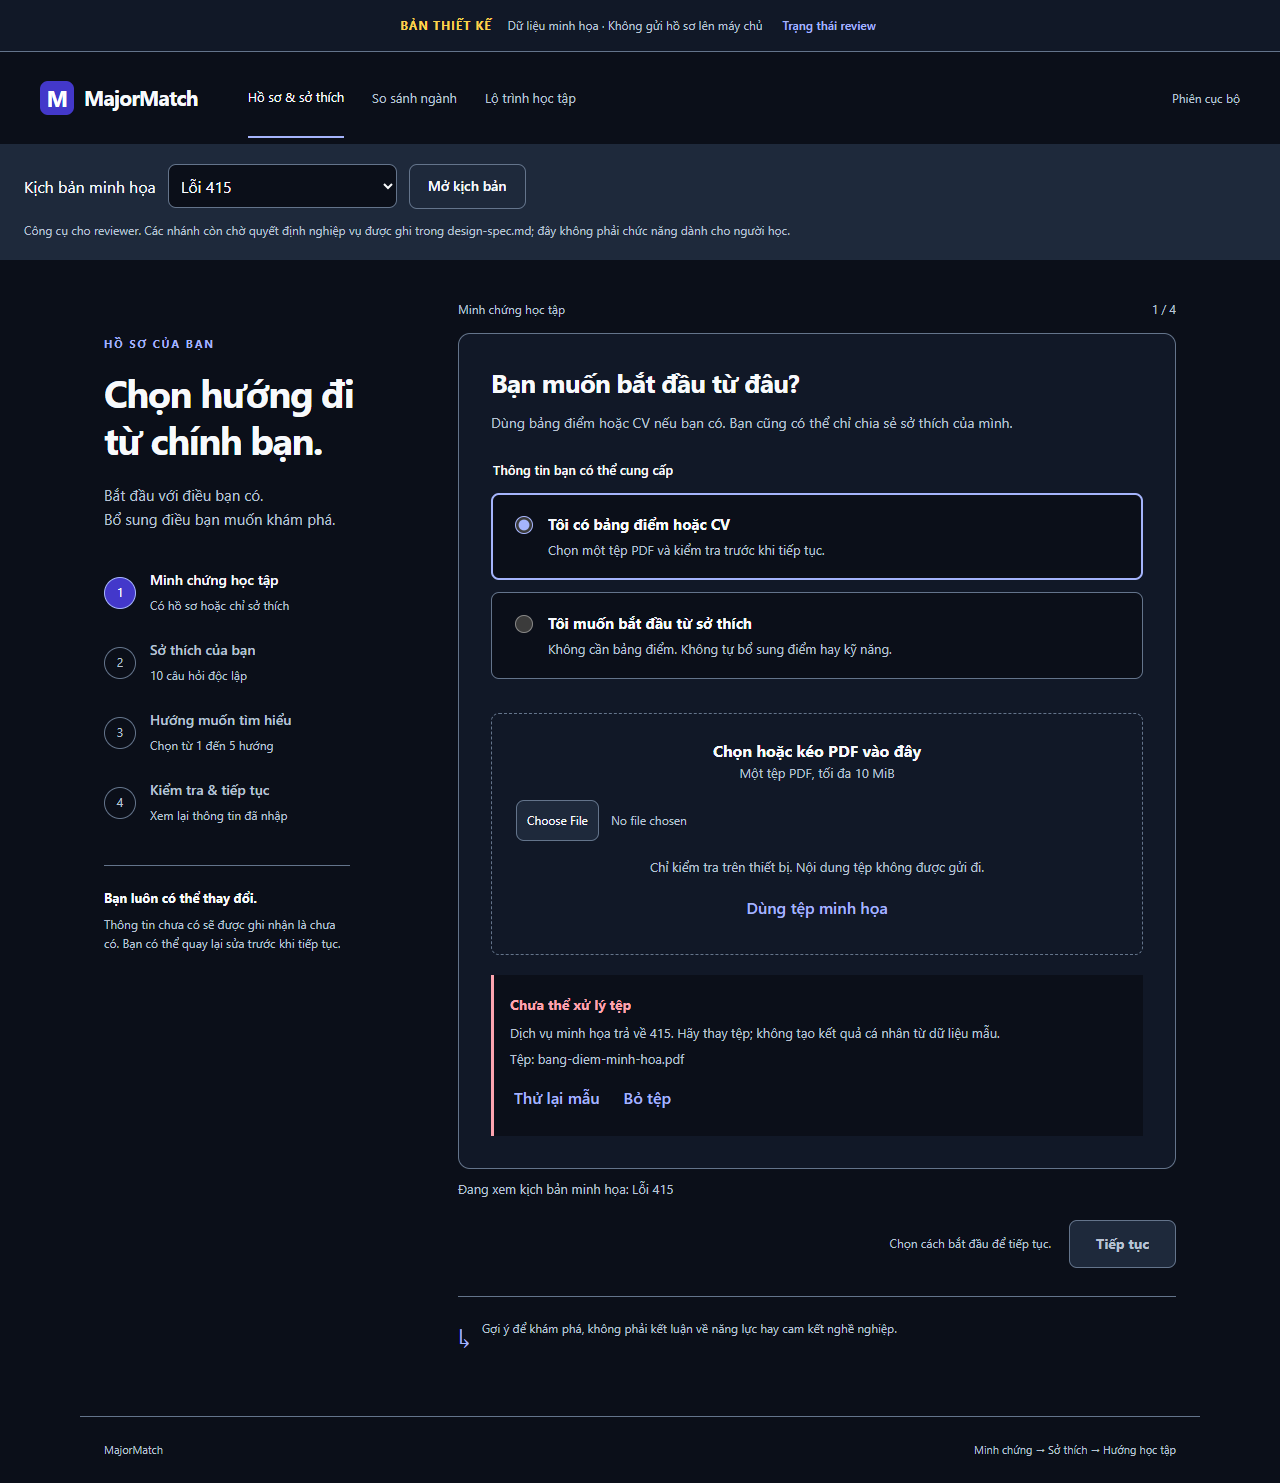
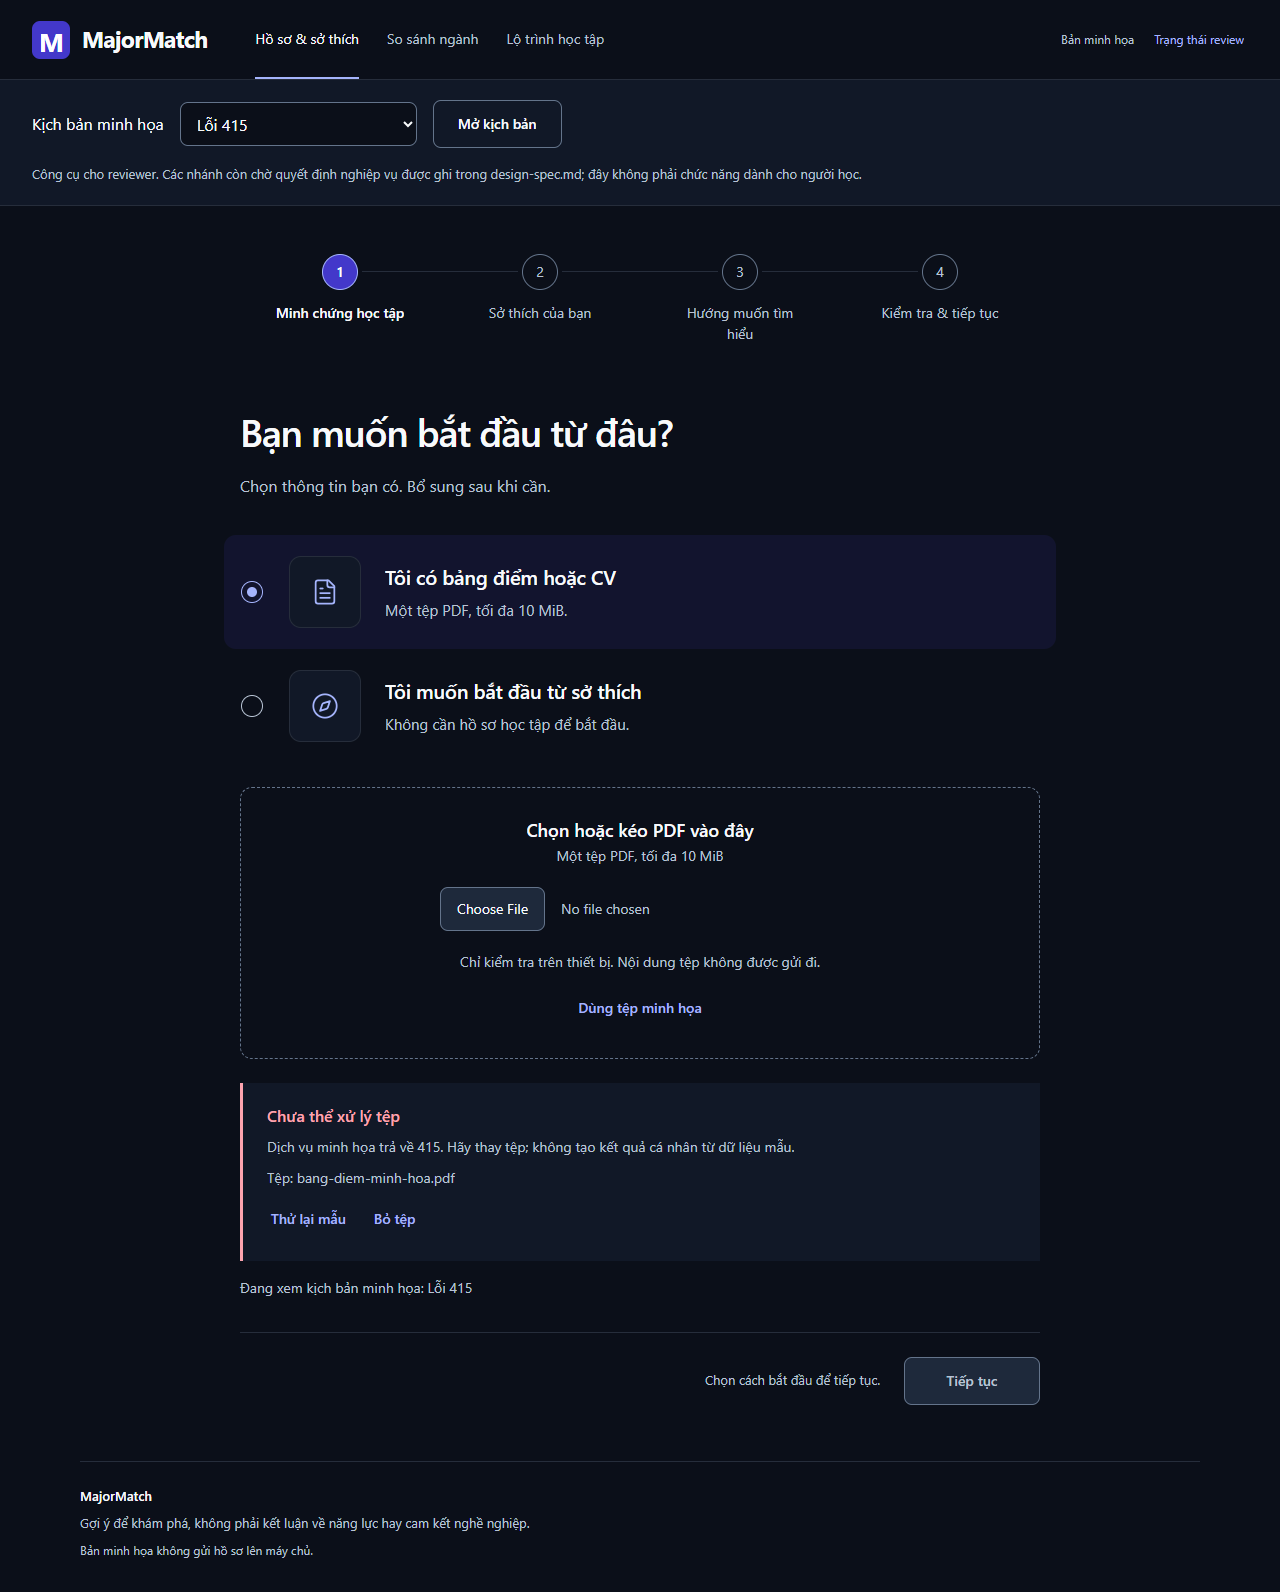
test(ingestion): document selected design and keyboard verification

diff --git a/docs/ai-evidence/ingestion/w4-prompt-log.md b/docs/ai-evidence/ingestion/w4-prompt-log.md
@@ -105,3 +105,13 @@ Artifacts: `design/ingestion/design-spec.md`, `prototype/`, `review.md`, `verifi
 Verification: four Node tests passed; ten browser groups passed on Edge 153.0.4234.32. Tested source `62c38af926aac90cb3f916bb53da54daf716d316`; generated report records date/revision/limits. Actual captures include 375/768/1280 layouts, survey, review, failures, partial/success samples, 200% CSS zoom and forced colors. Human visual inspection covered desktop intake/review and mobile intake/survey/error; fixed a run-together upload label and duplicate survey counter before regenerating evidence. Initial browser startup failed because the Windows Python server returned `.mjs` as `text/plain`; the shared Node loopback server fixes the MIME issue. This corrective shared change is committed separately.
 
 Token contrast checks passed (text 16.96, muted 9.96, button 7.90, error 10.13, border 3.73, focus 12.84). Browser observed no external requests or backend POST. Foundation checker passed 72 local Markdown links; `git diff --check` passed. Screen-reader speech, real keyboard-only end-to-end completion, live API/SSE/Zustand, production build, Figma fidelity and human policy approval remain unverified. Prototype checks do not close production acceptance criteria.
+
+## 10. Selected visual direction implementation
+
+User selected displayed option 1 and requested careful typography/colors and commits. Implemented the open horizontal-progress concept in the existing Ingestion branch as Hoàng. The selected generated reference is stored in `design/ingestion/references/selected-option-1.png`; it is not a runtime screenshot. Removed slogan rail and enclosing card, refined sans type scale/weights and spacing, retained shared dark/indigo tokens, added licensed Lucide icons, simplified learner copy while keeping demo provenance and recovery behavior. No other module, production src or policy was changed. The concept's invented account/feedback features were excluded.
+
+Frontend Design Review guided implementation/review. The previously requested Taste skill excludes multi-step forms; its marketing patterns were not imposed on the product journey. Product Design ideation was completed in the previous turn; this turn implements the user's selected image.
+
+Source commits: `850cfbe` layout/type/copy/icons; `73ac0e7` zoom reflow fix. Final verification: four model tests PASS, eleven browser groups PASS, 25 PNG captures; 77 local Markdown links and diff whitespace check PASS. The new keyboard-only test completes survey-only intake, all ten answers, a tag, review and handoff at 375px. Initial preview connection refusal was resolved by restarting the local Node server. A failing zoom check revealed action/header overflow; removing negative action margins and allowing header wrapping fixed it. Results record source `73ac0e76d2a0ea5bff544481a1e6155e9d894347`.
+
+Visual inspection covered desktop/mobile intake, desktop survey/review, mobile handoff and zoom. No full screen-reader, production build, live API, Figma fidelity or business-policy approval claimed. Design PRs remain review-only; publishing follows client-first then monorepo.

diff --git a/design/ingestion/design-spec.md b/design/ingestion/design-spec.md
@@ -6,7 +6,11 @@ Owner: Văn Hoàng (`Vcoch27`). Status: **conditional review prototype**, not an
 
 Translate [the Ingestion PRD](../../tasks/ingestion/prd-ingestion-ui.md) into an inspectable evidence → survey → interests → review journey. Follow [DESIGN.md](../../DESIGN.md), [guardrails](../../DESIGN-GUARDRAILS.md) and [shared tokens](../shared/tokens.css). Do not alter Analytics, Advisor, scoring policy or production routes.
 
-Use the existing dark/indigo identity, solid surfaces, one primary action and a persistent workflow rail. System sans typography keeps Vietnamese readable without remote font requests. At widths below 700px, use a compact progress row and one column; retain the full task rather than hiding required inputs. Fieldsets and native radio/checkbox/file controls preserve keyboard semantics. Ten survey answers are split into two pages of five; nothing defaults to neutral. Optional technical detail is collapsed beneath the review summary.
+Use the existing dark/indigo identity, solid surfaces and one primary action. The user selected [visual option 1](references/selected-option-1.png) on 2026-09-15, replacing the slogan sidebar and enclosing card with horizontal progress and an open 800px task column inside the 1120px shell. At widths below 700px, retain all four progress labels and a single task column. Ten survey answers remain split into two pages of five, with no default neutral response.
+
+Typography: Segoe UI/system sans supports Vietnamese without remote font requests; headings 38px/600 desktop, 28px mobile, body 16px, choice titles 20px desktop/16px mobile. Survey prompts use regular weight rather than blanket bold. Preserve shared indigo and semantic feedback colors. Module-only `--ing-divider` is a subdued blend for non-interactive separators, not control boundaries; `--ing-selected` is an indigo selection tint. Control borders keep high contrast. No gradients, glows or new typeface dependency.
+
+Lucide file-text and compass geometry comes from release 0.447.0, with license in prototype/LUCIDE-LICENSE.txt, matching the production icon family. The concept's account icon and feedback link are omitted because they are outside the PRD. The action row stays aligned to the form for reliable zoom reflow. These are documented refinements, not pixel-exact reproduction claims. Technical JSON stays collapsed; learner copy no longer exposes internal XD-01/DERIVED jargon. Original disclaimer and business gates remain intact.
 
 The banner labels every screen as a design/demo. Journey labels for Analytics and Advisor are context, not functional navigation. No real Figma file was authored; editable HTML/CSS/ES modules are the design source, PNGs are review evidence, JSON is generated verification output.
 

diff --git a/design/ingestion/review.md b/design/ingestion/review.md
@@ -1,5 +1,15 @@
 # Frontend Design Review: Ingestion review prototype
 
+## Current revision: selected option 1
+
+2026-09-15: user selected the first displayed Product Design concept and requested attention to typography/colors plus commits. Source `73ac0e7` supersedes the visual assessment below. [Chosen target](references/selected-option-1.png) and current [desktop](screenshots/intake-1280.png), [mobile](screenshots/intake-375.png) captures show the open layout, horizontal progress, icon-assisted choices and restrained shared indigo. The original review below records the first pass; its old screenshots are recoverable in Git, while linked PNGs now show the revised source.
+
+Frontend Design Review was used for this implementation. Visual comparison covered intake, survey, review, mobile handoff and zoom. Font family remains the shared Vietnamese-capable sans; hierarchy is refined through size, regular/semibold weights and spacing, not decorative type. Low-contrast dividers separate content only; control borders remain distinct. No marketing imagery, account feature or new brand palette was introduced.
+
+Verification rerun: **4 model tests and 11 browser groups PASS**, 25 actual screenshots. New keyboard-only 375px test traverses both survey pages, tags, review and handoff. The 200% CSS-zoom check initially failed: removing action overflow alone was insufficient; allowing header wrapping fixed the remaining overflow. Final generated results name the tested source. Local server was restarted after an initial connection-refused run. Neither failure is counted as a pass.
+
+Verdict: ready for user visual review, not production sign-off. Screen-reader speech, live integrations, Figma fidelity and policy approval remain unverified. Existing Q1-Q9 remain open; visual selection is not business-policy approval.
+
 ## Context
 
 Văn Hoàng · Week 4 Task 2 · source revision `62c38af`. Purpose: let learners provide evidence, independently answer interest questions and review their selected career directions. Direction: restrained MajorMatch dark/indigo workflow, strong task hierarchy and explicit provenance. Reviewed using the client-local Microsoft Frontend Design Review skill. Taste is installed but explicitly does not govern multi-step product forms.

diff --git a/design/ingestion/verification/README.md b/design/ingestion/verification/README.md
@@ -4,6 +4,6 @@ From monorepo root, start `node client/design/shared/serve.cjs`. In a standalone
 
 Run `node --test client/design/ingestion/verification/model.test.mjs` for four model tests. Browser verification requires an available Playwright package and installed Microsoft Edge, but adds no production dependency. If Playwright is not resolvable from Node, set `MAJORMATCH_PLAYWRIGHT_PATH` to its absolute package directory. Optionally set `MAJORMATCH_BROWSER_CHANNEL` to another installed Playwright-supported browser channel.
 
-Run `node client/design/ingestion/verification/browser-check.cjs`. It generates [results.json](results.json) and 24 PNGs under `../screenshots/`. The recorded revision identifies the committed prototype source; the evidence commit follows it. Run against a clean source checkout for reproducibility. The default preview URL is loopback port 4173; the network assertion intentionally permits only that origin. No real personal records are needed: test PDFs are synthetic buffers.
+Run `node client/design/ingestion/verification/browser-check.cjs`. It generates [results.json](results.json) and 25 PNGs under `../screenshots/`. The recorded revision identifies the committed prototype source; the evidence commit follows it. Run against a clean source checkout for reproducibility. The default preview URL is loopback port 4173; the network assertion intentionally permits only that origin. No real personal records are needed: test PDFs are synthetic buffers. The revised suite has eleven groups, including a keyboard-only 375px survey-to-handoff journey.
 
 The report separates ten checked groups from unverified work. CSS zoom and emulated forced-colors/reduced-motion are smoke checks, not a full browser/assistive-technology certification. Screenshots require human inspection in addition to automated overflow checks. Do not interpret this report as production E2E, live API, Figma fidelity or policy approval.

diff --git a/design/ingestion/README.md b/design/ingestion/README.md
@@ -6,6 +6,8 @@ Branch: `feat/vanhoang-w4-ingestion-ui-design`. Git Author: `Vcoch27 <hoangtungm
 
 Status: conditional review prototype, not production or PRD approval.
 
+Current visual revision: user-selected [option 1](references/selected-option-1.png), implemented as an open task surface with horizontal progress. Typography and indigo usage follow shared tokens; no production routes changed. See the latest section of the design review for verification and deliberate deviations from the generated image.
+
 - [Design specification and PRD mapping](design-spec.md)
 - [Editable prototype](prototype/index.html) — run `node client/design/shared/serve.cjs` from monorepo root, then open http://127.0.0.1:4173/design/ingestion/prototype/
 - [Desktop capture](screenshots/intake-1280.png) and [mobile capture](screenshots/intake-375.png)
